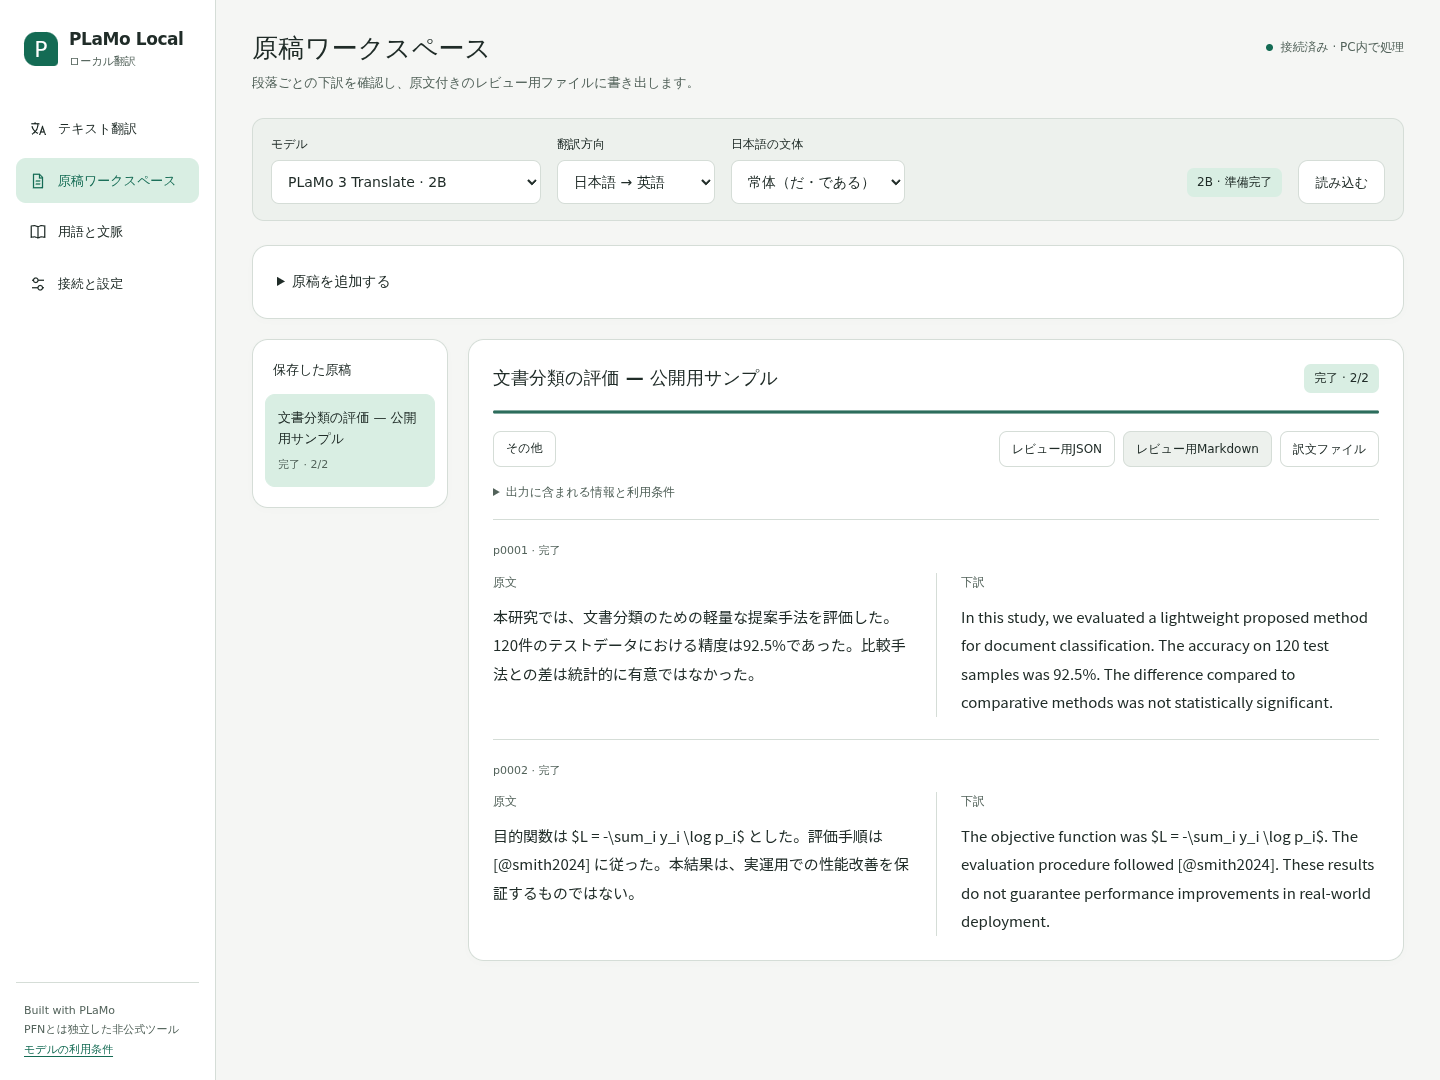
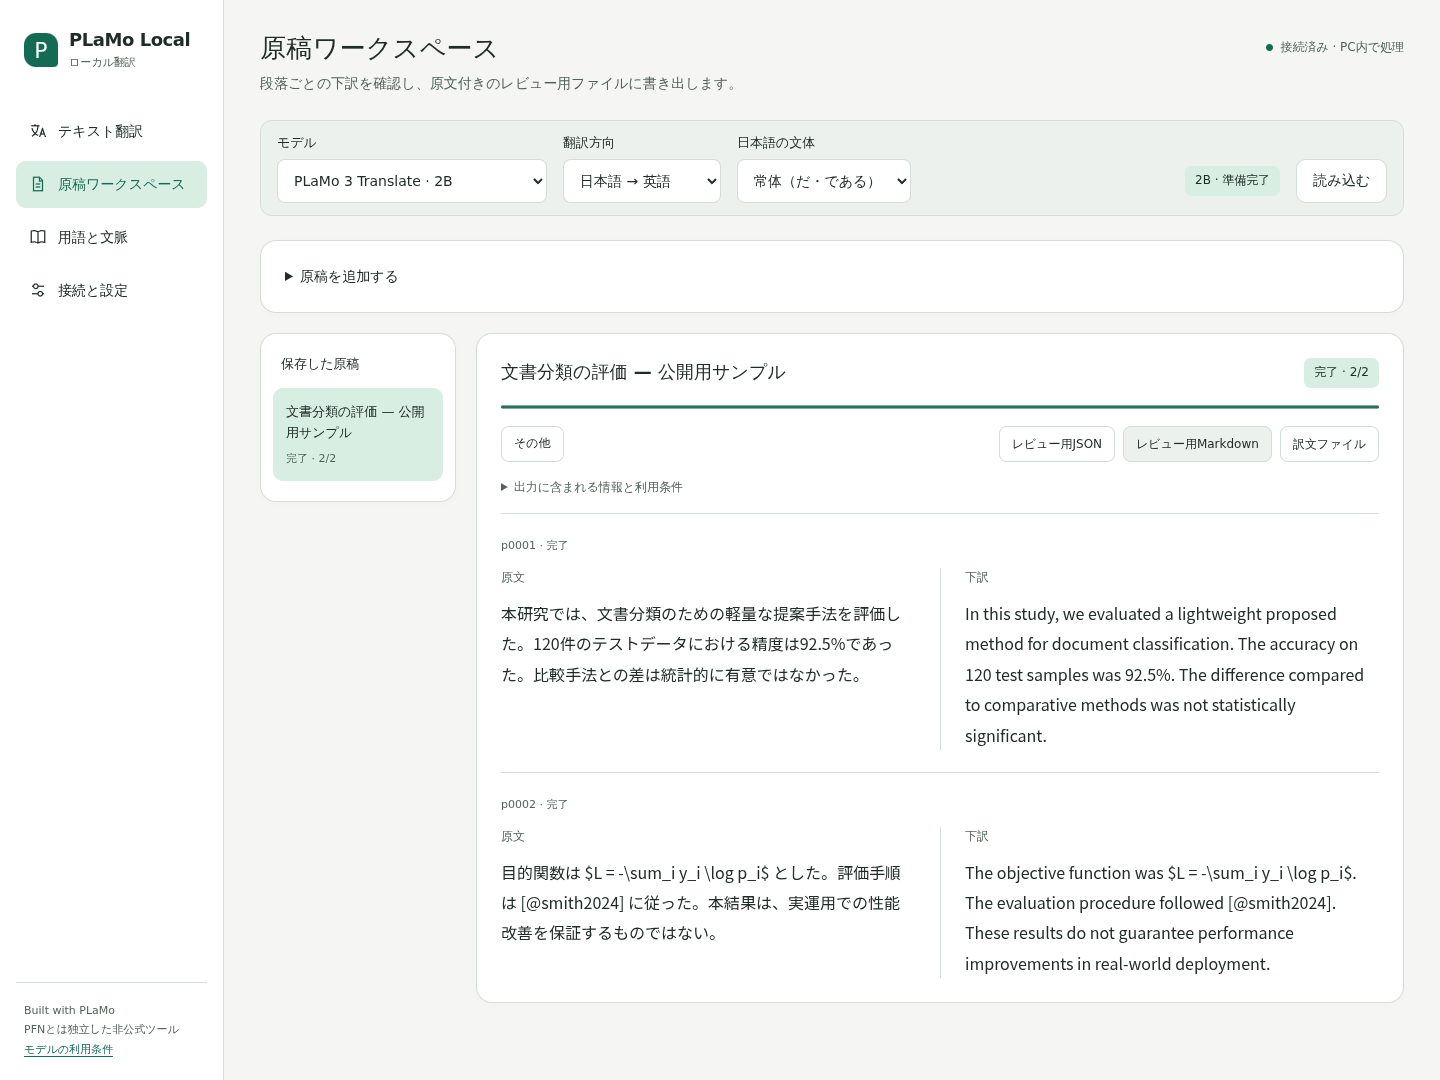
fix: verify screenshot themes and improve paired text layout

diff --git a/extension/public/styles.css b/extension/public/styles.css
@@ -15,7 +15,7 @@
     display: inline-flex; align-items: center; justify-content: center; gap: 8px;
     min-height: 44px; padding: 10px 16px; border: 1px solid var(--line);
     border-radius: 10px; background: var(--surface); cursor: pointer;
-    font-size: 13px; font-weight: 500; line-height: 1.5; white-space: nowrap;
+    font-size: 14px; font-weight: 500; line-height: 1.5; white-space: nowrap;
   }
   button:hover:not(:disabled) { background: var(--surface-2); }
   button:disabled { opacity: .55; cursor: not-allowed; }
@@ -32,9 +32,9 @@
   textarea:focus, input:focus, select:focus { border-color: var(--primary); }
   ::placeholder { color: var(--muted); opacity: .85; }
   :focus-visible { outline: 3px solid var(--focus); outline-offset: 3px; }
-  label { display: grid; gap: 8px; font-size: 13px; font-weight: 500; line-height: 1.5; }
+  label { display: grid; gap: 8px; font-size: 14px; font-weight: 500; line-height: 1.5; }
   h2 label { font: inherit; }
-  small, .muted { color: var(--muted); font-size: 13px; font-weight: 400; }
+  small, .muted { color: var(--muted); font-size: 14px; font-weight: 400; }
   [hidden] { display: none !important; }
   pre { white-space: pre-wrap; overflow-wrap: anywhere; font: inherit; margin: 0; }
   hr { border: 0; border-top: 1px solid var(--line); margin: 20px 0; }
@@ -44,31 +44,32 @@
 }
 
 @layer layout {
-  .shell { min-height: 100vh; display: grid; grid-template-columns: 216px minmax(0, 1fr); }
+  .shell { min-height: 100vh; display: grid; grid-template-columns: 224px minmax(0, 1fr); }
   .rail { padding: 28px 16px 20px; border-right: 1px solid var(--line); display: flex; flex-direction: column; gap: 36px; background: var(--surface); position: sticky; top: 0; height: 100vh; }
   .brand { display: flex; align-items: center; gap: 11px; padding: 0 8px; }
   .brand-mark { display: grid; place-items: center; flex: 0 0 34px; height: 34px; background: var(--primary); color: var(--on-primary); border-radius: 12px 12px 4px 12px; font-size: 22px; font-weight: 500; }
-  .brand-name { font-size: 17px; font-weight: 650; line-height: 1.35; letter-spacing: -.025em; white-space: nowrap; }
+  .brand-name { font-size: 18px; font-weight: 650; line-height: 1.35; letter-spacing: -.025em; white-space: nowrap; }
   .brand-sub { font-size: 11px; line-height: 1.5; color: var(--muted); margin-top: 3px; }
   nav { display: grid; gap: 6px; }
-  nav button { text-align: left; justify-content: flex-start; gap: 11px; padding: 12px; border-color: transparent; background: transparent; border-radius: 10px; font-size: 13px; font-weight: 400; }
+  nav button { text-align: left; justify-content: flex-start; gap: 11px; padding: 12px; border-color: transparent; background: transparent; border-radius: 10px; font-size: 14px; font-weight: 400; }
   nav button[aria-current='page'] { background: var(--primary-soft); color: var(--primary); font-weight: 600; }
   .nav-icon { width: 18px; height: 18px; flex: 0 0 18px; stroke-width: 1.6; }
   .rail-foot { margin-top: auto; padding: 18px 8px 0; border-top: 1px solid var(--line); font-size: 11px; line-height: 1.8; color: var(--muted); }
   main { padding: 30px 36px 48px; max-width: 1720px; width: 100%; margin: 0 auto; align-self: start; min-width: 0; }
   .page-head { margin-bottom: 24px; display: flex; align-items: flex-start; justify-content: space-between; gap: 24px; }
-  .page-head p { color: var(--muted); margin-top: 6px; font-size: 13px; line-height: 1.7; }
+  .page-head p { color: var(--muted); margin-top: 6px; font-size: 14px; line-height: 1.7; }
   .connection { display: flex; align-items: center; gap: 7px; font-size: 12px; color: var(--muted); white-space: nowrap; padding-top: 8px; }
   .dot { width: 7px; height: 7px; border-radius: 50%; background: var(--muted); }
   .dot.ok { background: var(--primary); }
-  .toolbar { display: flex; align-items: flex-end; gap: 16px; flex-wrap: wrap; padding: 16px 18px; background: var(--surface-2); border: 1px solid var(--line); border-radius: 12px; margin-bottom: 24px; }
-  .toolbar label { min-width: 158px; font-size: 12px; gap: 7px; }
+  .toolbar { display: flex; align-items: flex-end; gap: 16px; flex-wrap: wrap; padding: 12px 16px; background: var(--surface-2); border: 1px solid var(--line); border-radius: 12px; margin-bottom: 24px; }
+  .toolbar label { min-width: 158px; font-size: 13px; gap: 6px; }
   .toolbar label:first-child { flex: 1 1 220px; max-width: 270px; }
   .toolbar select { width: 100%; }
   .toolbar .engine { margin-left: auto; display: flex; align-items: center; min-height: 44px; }
   .toolbar > button { background: var(--surface); }
-  .workspace { display: grid; grid-template-columns: minmax(0, 1fr) minmax(0, 1fr); gap: 20px; }
-  .workspace > .card { display: flex; flex-direction: column; }
+  .workspace { display: grid; grid-template-columns: minmax(0, 1fr) minmax(0, 1fr); gap: 0; border: 1px solid var(--line); border-radius: 14px; background: var(--surface); overflow: hidden; }
+  .workspace > .card { display: flex; flex-direction: column; border: 0; border-radius: 0; box-shadow: none; }
+  .workspace > .card + .card { border-left: 1px solid var(--line); }
   .workspace .card-head { min-height: 36px; }
   .workspace .card-foot { margin-top: auto; }
   .stack { display: grid; gap: 20px; }
@@ -79,8 +80,8 @@
   .card-head { display: flex; justify-content: space-between; align-items: center; gap: 16px; margin-bottom: 20px; }
   .card-head h2 { min-width: 0; overflow-wrap: anywhere; }
   .card-head > button { min-height: 36px; padding: 7px 12px; font-size: 12px; }
-  .editor { border: 0; border-radius: 0; padding: 0; min-height: 320px; background: transparent; font: 400 16px/1.85 var(--font-sans); resize: vertical; margin-bottom: 24px; }
-  .output { min-height: 320px; font: 400 16px/1.85 var(--font-sans); padding-bottom: 24px; }
+  .editor { border: 0; border-radius: 0; padding: 0; min-height: 180px; background: transparent; font: 400 18px/1.85 var(--font-sans); resize: vertical; margin-bottom: 24px; }
+  .output { min-height: 180px; font: 400 18px/1.85 var(--font-sans); padding-bottom: 24px; }
   .card-foot { border-top: 1px solid var(--line); padding-top: 16px; margin-top: 20px; }
   .document-layout { display: grid; grid-template-columns: 196px minmax(0, 1fr); gap: 20px; align-items: start; }
   .document-list { padding: 20px 12px; }
@@ -109,7 +110,7 @@
   .pair-grid { display: grid; grid-template-columns: minmax(0, 1fr) minmax(0, 1fr); gap: 0; margin-top: 12px; }
   .pair-grid > div { min-width: 0; padding-right: 24px; }
   .pair-grid > div + div { border-left: 1px solid var(--line); padding: 0 0 0 24px; }
-  .pair pre { font: 400 15px/1.9 var(--font-sans); }
+  .pair pre { font: 400 16px/1.9 var(--font-sans); }
   .pair h3 { color: var(--muted); font-size: 12px; margin-bottom: 10px; font-weight: 500; }
   .empty { padding: 40px 12px; text-align: center; color: var(--muted); font-size: 14px; }
   .profile-row { display: flex; align-items: flex-end; gap: 12px; flex-wrap: wrap; }
@@ -145,7 +146,8 @@
     .brand-name { font-size: 15px; }
     nav button { padding: 11px 8px; gap: 8px; font-size: 12px; }
     .workspace { grid-template-columns: 1fr; }
-    .editor, .output { min-height: 240px; }
+    .editor, .output { min-height: 180px; }
+    .workspace > .card + .card { border-left: 0; border-top: 1px solid var(--line); }
     .page-head { flex-direction: column; gap: 10px; }
     .connection { padding-top: 0; }
     .toolbar label, .toolbar label:first-child { flex: 1 1 160px; max-width: none; }
@@ -165,7 +167,7 @@
     .pair-grid { grid-template-columns: 1fr; gap: 20px; }
     .pair-grid > div { padding: 0; }
     .pair-grid > div + div { padding: 0; border-left: 0; }
-    .pair pre { font-size: 15px; }
+    .pair pre { font-size: 16px; }
     .fields { grid-template-columns: 1fr; }
     .row > button, .profile-row > button { white-space: normal; max-width: 100%; }
     .job-actions > .row:last-child { margin-left: 0; }
@@ -179,7 +181,7 @@
   .notice { padding: 14px 18px; border-radius: 10px; margin: 0 0 20px; border: 1px solid var(--line); background: var(--surface-2); white-space: pre-wrap; font-size: 14px; }
   .notice.error, .warning { color: var(--error); background: var(--error-bg); }
   .warning { font-size: 13px; padding: 12px; border-radius: 8px; margin-top: 12px; }
-  .metrics { font-size: 11px; color: var(--muted); font-variant-numeric: tabular-nums; }
+  .metrics { font-size: 12px; color: var(--muted); font-variant-numeric: tabular-nums; }
   .table-wrap { overflow-x: auto; }
   table { width: 100%; border-collapse: collapse; font-size: 14px; }
   th { text-align: left; font-weight: 500; background: var(--surface-2); color: var(--muted); font-size: 12px; }

diff --git a/extension/src/app.ts b/extension/src/app.ts
@@ -55,18 +55,19 @@ async function showJob(){
 }
 async function translate(){
  const text=$<HTMLTextAreaElement>('source').value.trim();if(!text)throw new Error('原文を入力してください。');
- await saveSettings();$('notice').hidden=true;$<HTMLButtonElement>('translate').disabled=true;$<HTMLButtonElement>('cancel-translation').disabled=false;$<HTMLButtonElement>('copy-translation').disabled=true;$('translation').textContent='';$('translation-warnings').hidden=true;$('translation-metrics').textContent='';
+ fitSource();await saveSettings();$('notice').hidden=true;$<HTMLButtonElement>('translate').disabled=true;$<HTMLButtonElement>('cancel-translation').disabled=false;$('cancel-translation').hidden=false;$<HTMLButtonElement>('copy-translation').disabled=true;$('translation').textContent='';$('translation-warnings').hidden=true;$('translation-metrics').textContent='';
  try{let task=await api<Task>('/api/translations','POST',{text,options:readOptions()});translationId=task.id;
   for(;;){$('translation').textContent=task.translation;$('translation-status').textContent=labels[task.status]||task.status;
    if(['done','error','cancelled'].includes(task.status))break;await wait(120);task=await api<Task>(`/api/translations/${translationId}`);}
   if(task.status==='error')throw new Error(task.error||'翻訳に失敗しました。');
   if(task.status==='done'){$<HTMLButtonElement>('copy-translation').disabled=false;if(task.warnings.length){$('translation-warnings').textContent=task.warnings.join('\n');$('translation-warnings').hidden=false;}if(task.metrics)$('translation-metrics').textContent=task.metrics.cache_hit?'キャッシュから表示':`最初の応答 ${task.metrics.ttft_seconds.toFixed(2)}秒 · 完了 ${task.metrics.elapsed_seconds.toFixed(2)}秒`;}
- }finally{translationId='';$<HTMLButtonElement>('translate').disabled=false;$<HTMLButtonElement>('cancel-translation').disabled=true;refresh();}
+ }finally{translationId='';$<HTMLButtonElement>('translate').disabled=false;$<HTMLButtonElement>('cancel-translation').disabled=true;$('cancel-translation').hidden=true;refresh();}
 }
 action('translate',translate);action('cancel-translation',async()=>{if(translationId)await api(`/api/translations/${translationId}/cancel`,'POST',{});});
 action('copy-translation',async()=>{await navigator.clipboard.writeText($('translation').textContent||'');notify('訳文をコピーしました。');});
-action('insert-sample',()=>{$<HTMLTextAreaElement>('source').value=select('direction').value==='en-ja'?'Our results suggest that the proposed method improves accuracy by 12.5%. However, the effect was not statistically significant.':'本研究の結果は、提案手法が精度を12.5%改善する可能性を示唆する。ただし、その効果は統計的に有意ではなかった。';$('char-count').textContent=$<HTMLTextAreaElement>('source').value.length+'文字';});
-$<HTMLTextAreaElement>('source').oninput=()=>{$('char-count').textContent=$<HTMLTextAreaElement>('source').value.length+'文字';};
+action('insert-sample',()=>{$<HTMLTextAreaElement>('source').value=select('direction').value==='en-ja'?'Our results suggest that the proposed method improves accuracy by 12.5%. However, the effect was not statistically significant.':'本研究の結果は、提案手法が精度を12.5%改善する可能性を示唆する。ただし、その効果は統計的に有意ではなかった。';$('char-count').textContent=$<HTMLTextAreaElement>('source').value.length+'文字';fitSource();});
+function fitSource(){const source=$<HTMLTextAreaElement>('source');source.style.height='auto';source.style.height=Math.min(480,Math.max(180,source.scrollHeight))+'px';}
+$<HTMLTextAreaElement>('source').oninput=()=>{fitSource();$('char-count').textContent=$<HTMLTextAreaElement>('source').value.length+'文字';};
 action('load-model',async()=>{await saveSettings();await api('/api/models/load','POST',{model:select('model').value});notify('モデルを読み込んでいます。状態表示をご確認ください。');});
 action('stop-engine',async()=>{await api('/api/models/stop','POST',{});notify('翻訳を中断し、モデルを停止します。');});
 for(const id of ['model','direction','form','theme'])select(id).onchange=()=>saveSettings().catch(failure);

diff --git a/extension/public/app.html b/extension/public/app.html
@@ -46,7 +46,7 @@
           <div class="card-head"><h2>訳文</h2><span id="translation-status" class="muted" role="status"></span></div>
           <pre id="translation" class="output" tabindex="0" aria-label="訳文">訳文がここに表示されます。</pre>
           <div id="translation-warnings" class="warning" hidden></div>
-          <div class="card-foot row spread"><span id="translation-metrics" class="metrics"></span><div class="row"><button id="cancel-translation" disabled>キャンセル</button><button id="copy-translation" disabled>コピー</button></div></div>
+          <div class="card-foot row spread"><span id="translation-metrics" class="metrics"></span><div class="row"><button id="cancel-translation" disabled hidden>キャンセル</button><button id="copy-translation" disabled>コピー</button></div></div>
         </section>
       </div>
     </section>

diff --git a/extension/public/tokens.css b/extension/public/tokens.css
@@ -20,7 +20,7 @@
     --small: 8px;
     --shadow: 0 2px 8px #18352a03;
     font-family: var(--font-sans);
-    font-size: 15px;
+    font-size: 16px;
     font-weight: 400;
     line-height: 1.65;
     letter-spacing: 0;

diff --git a/server/plamo_local/service.py b/server/plamo_local/service.py
@@ -144,7 +144,7 @@ class Handler(BaseHTTPRequestHandler):
     def dispatch(self):
         if not self._origin_ok():self.json({'error':'接続元またはHostが許可されていません。'},403);return
         parsed=urlsplit(self.path);path=parsed.path
-        if path=='/api/health' and self.command=='GET':self.json({'ok':True,'version':'0.1.2'});return
+        if path=='/api/health' and self.command=='GET':self.json({'ok':True,'version':'0.1.3'});return
         if path=='/api/bootstrap' and self.command=='GET':
             if self.headers.get('Sec-Fetch-Site') in {'same-origin','none'} and self.headers.get('Origin',f'http://127.0.0.1:{API_PORT}') in LOCAL_ORIGINS:self.json({'token':self.app.token});return
             self.json({'error':'ローカルの原稿画面から接続してください。'},403);return

diff --git a/scripts/start.py b/scripts/start.py
@@ -7,7 +7,7 @@ parser=argparse.ArgumentParser();parser.add_argument('--quiet',action='store_tru
 DATA.mkdir(exist_ok=True,mode=0o700)
 def healthy():
     try:
-        with urllib.request.urlopen(f'http://127.0.0.1:{os.environ.get("PLAMO_API_PORT","8765")}/api/health',timeout=1) as r:return json.load(r).get('version')=='0.1.2'
+        with urllib.request.urlopen(f'http://127.0.0.1:{os.environ.get("PLAMO_API_PORT","8765")}/api/health',timeout=1) as r:return json.load(r).get('version')=='0.1.3'
     except Exception:return False
 if not healthy():
     env=os.environ.copy();env['PYTHONPATH']=str(ROOT/'server')

diff --git a/docs/DESIGN.md b/docs/DESIGN.md
@@ -45,3 +45,10 @@ Carbonのproductive typographyの考え方を参照し、M3の主操作・状態
 
 参照: https://www.carbondesignsystem.com/building-blocks/foundations/typography/overview
 フォントの取得元・変換条件・ハッシュ: `licenses/fonts/provenance.json`。
+
+
+## 2026-11-05: 画像の取り違えと対訳画面の再修正
+
+v0.1.2の紹介画像workspace-light.pngには、撮影開始時の保存テーマがダークであったため誤った画面が入っていた。フォント確認・axe成功だけでは画像とテーマの一致を保証できていなかった。撮影をscripts/capture_ui.mjsへ移し、名前・htmlのテーマ属性・color-scheme・実際の背景色を照合してから撮影する。
+
+本文を18px、ナビゲーション・主要操作を14pxへ変更し、短文の入力欄は180pxから内容に応じて最大480pxまで伸ばす。左右のカードを一つの対訳領域にまとめ、共通の区切り・見出し・本文・操作の位置を使う。処理が終わった後のキャンセルは隠す。原稿の対訳は16pxへ上げる。

diff --git a/docs/CAPTURES.md b/docs/CAPTURES.md
@@ -1,0 +1,11 @@
+# 画面画像の再生成
+
+個人原稿を使用しない分離APIで実行する。既存の設定は終了時に復帰するが、翻訳キャッシュや実モデルの読み込みは発生する。
+
+```bash
+PLAMO_CAPTURE_URL=http://127.0.0.1:8765/ scripts/node.sh node scripts/capture_ui.mjs
+```
+
+ブラウザはPlaywrightのChromiumを使用する。PLAYWRIGHT_BROWSERS_PATHで取得済みブラウザを指定できる。画像と検証JSONはwork/ui-captureへ出力する。PLAMO_CAPTURE_OUTPUTで出力先を変更できる。
+
+ライト/ダークを明示的に切り替え、DOMのテーマ・color-scheme・背景色を確認してからworkspace-light.pngとworkspace-dark.pngを撮影する。全4画面のaxe検査、390px幅のはみ出し、実フォント、短文と長文の入力欄の伸縮も確認する。撮影した画像は目視確認後にdocs/screenshotsへ反映する。

diff --git a/docs/PROGRESS.md b/docs/PROGRESS.md
@@ -11,3 +11,8 @@
 
 
 修正はPublicのPR #1とPrivateの既存PR #1へpush済み。Privateの実行中APIもv0.1.2に更新し、保存データ・設定と読み込み済み2Bを維持した。Publicのv0.1.2プレビューは修正ブランチのコミットから配布し、mainの直接更新・マージを行わない。X投稿文の案内先はv0.1.2リリースとする。
+
+
+## v0.1.3: スクリーンショットの不備と読みやすさの再修正
+
+ユーザーの指摘により、v0.1.2のworkspace-light.pngがダーク画面であったことを確認。取り違えを認め、画像・実画面を両方修正。本文18px、主要UI14px、180〜480pxで伸縮する入力欄、一体の対訳配置へ変更した。撮影スクリプトは実テーマと背景色を検証し、保存設定も終了時に復帰する。旧v0.1.2を上書きせず、改訂版をv0.1.3として配布する。

diff --git a/README.md b/README.md
@@ -16,7 +16,7 @@ PLaMo 3 Translateを使って、Chromeの選択文・ページ・論文原稿を
 
 ## 動作確認環境
 
-開発版 v0.1.2。WSL2 Ubuntu / Python 3.10 / NVIDIA RTX 4090 24GB / CUDA 12.6 / Windows Chromeで確認しています。Chrome 123以降が必要です。Mac、CPUのみ、他のGPUでの動作を保証するものではありません。
+開発版 v0.1.3。WSL2 Ubuntu / Python 3.10 / NVIDIA RTX 4090 24GB / CUDA 12.6 / Windows Chromeで確認しています。Chrome 123以降が必要です。Mac、CPUのみ、他のGPUでの動作を保証するものではありません。
 
 モデル・Node.js・推論ランタイム・開発依存は初回に取得します。重みだけで約7.1GB、セットアップ全体には20GB程度以上の空き容量を推奨します。取得後の翻訳はローカルで実行します。
 
